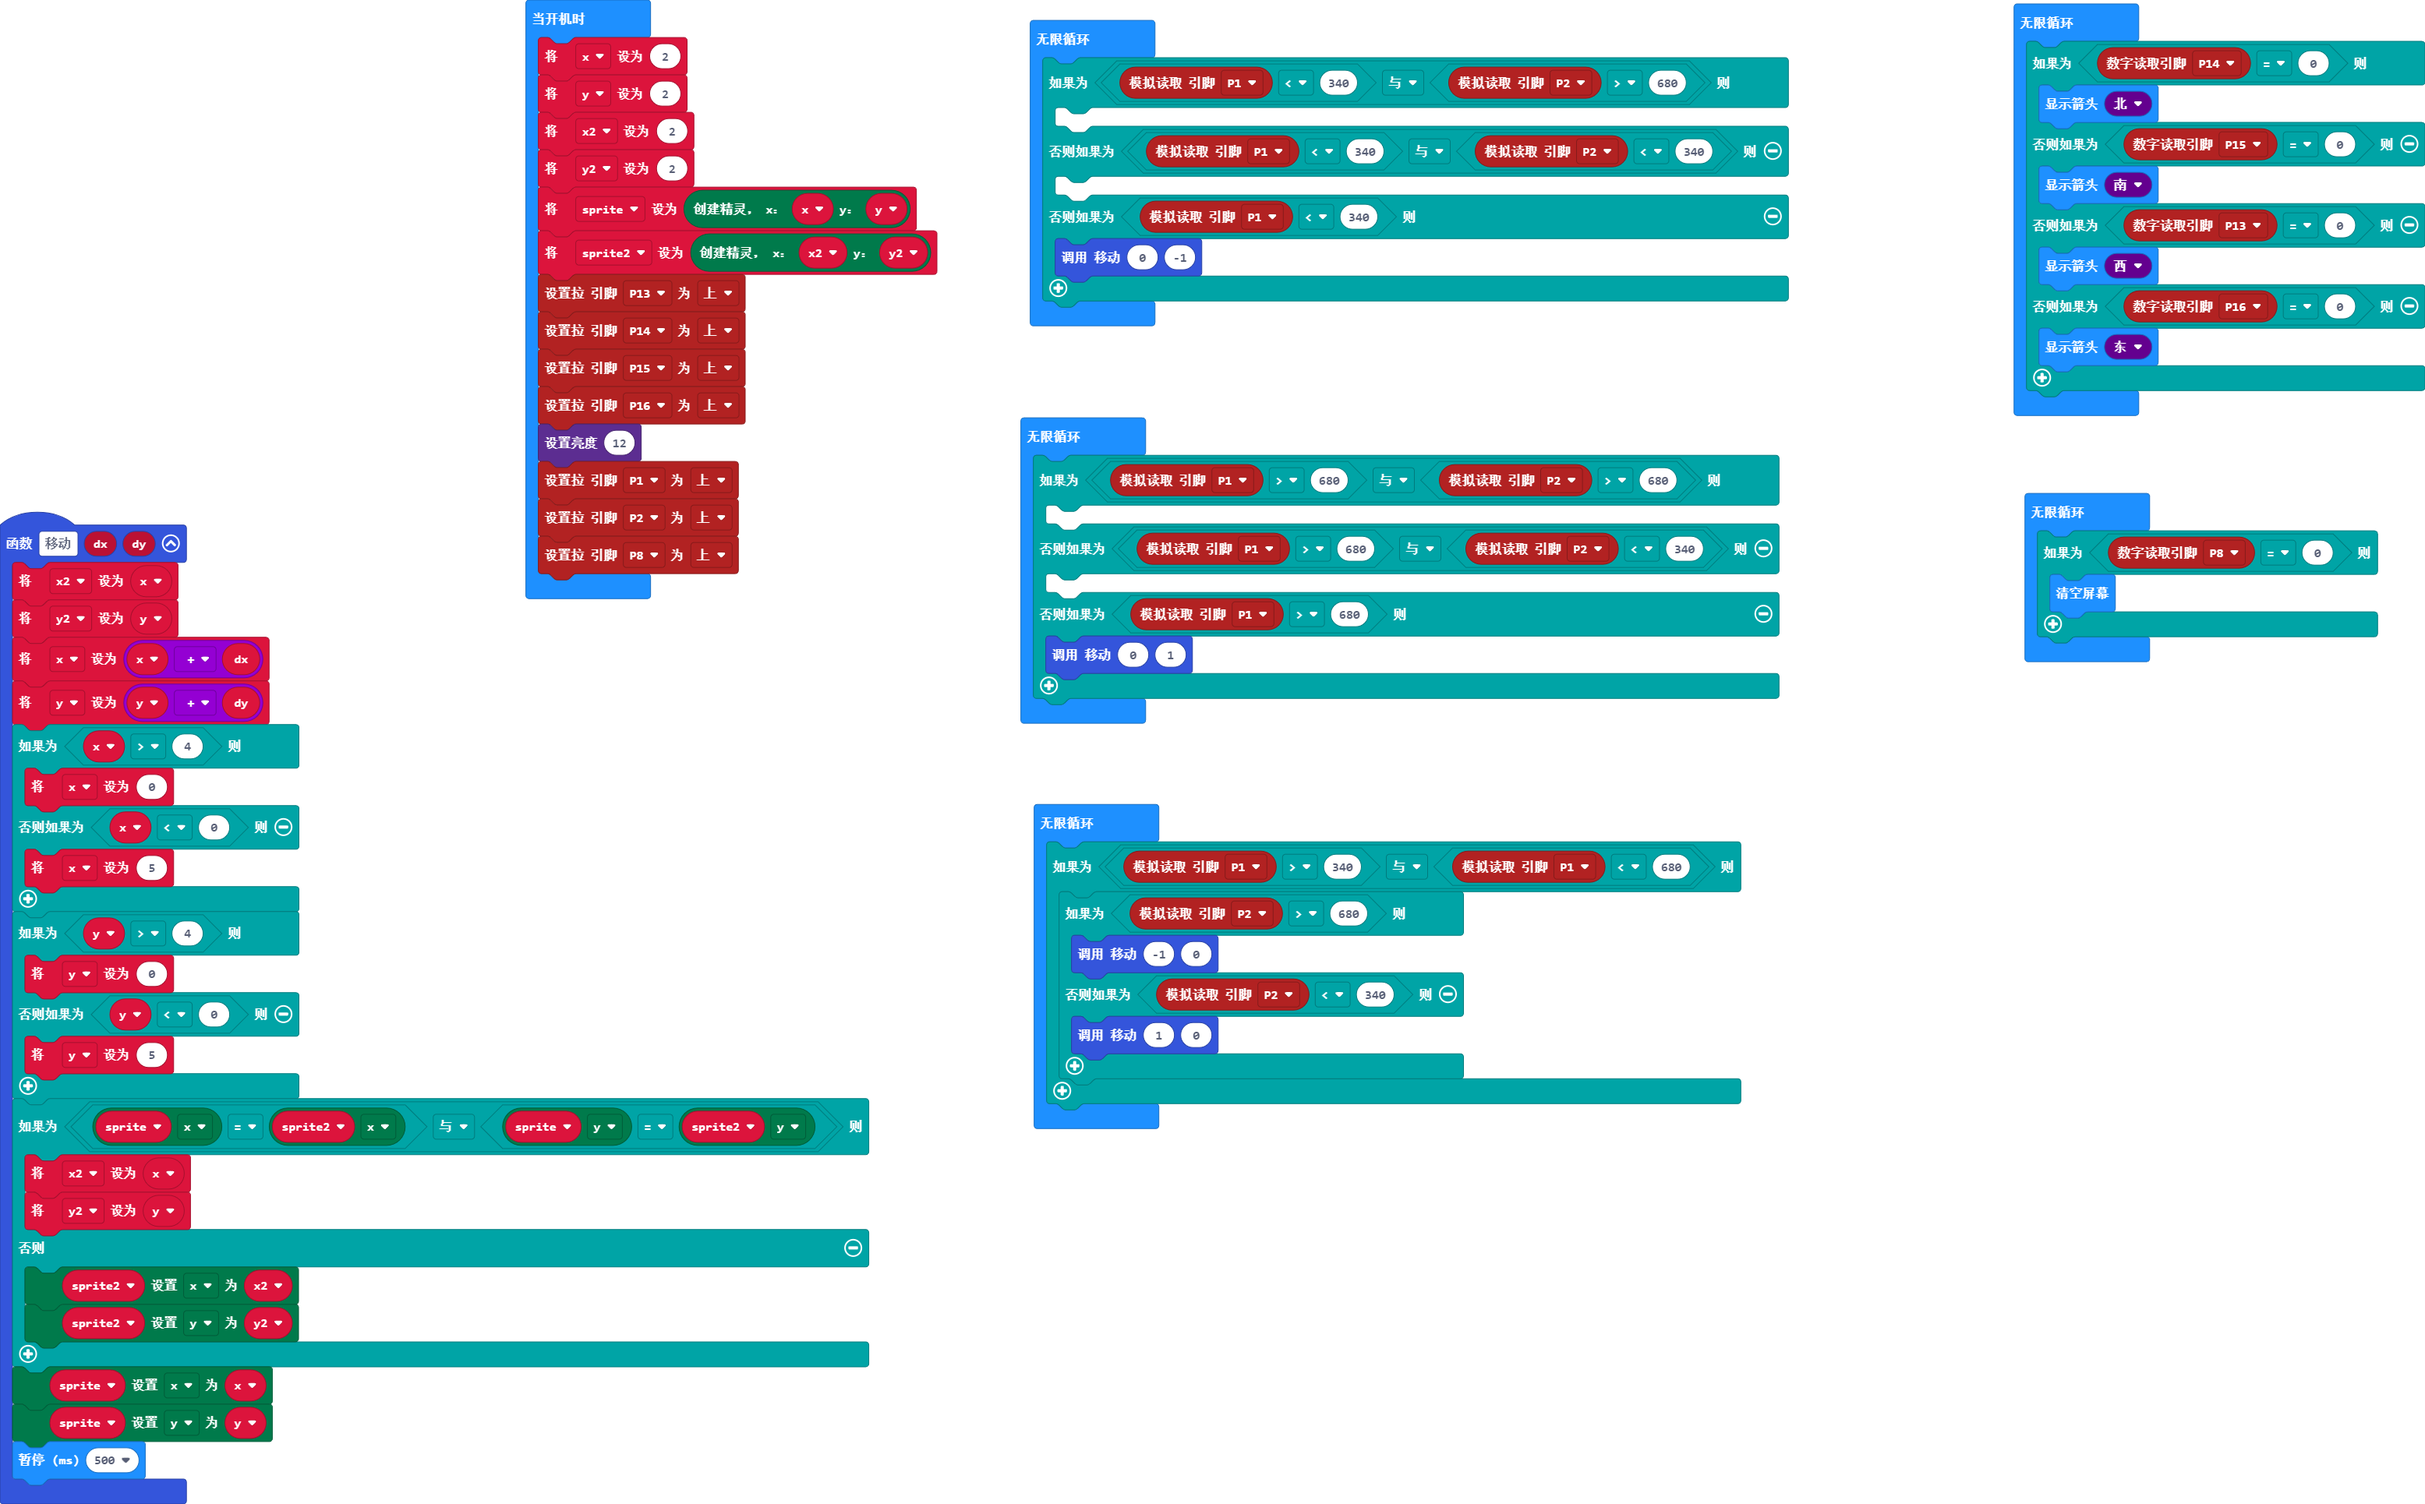
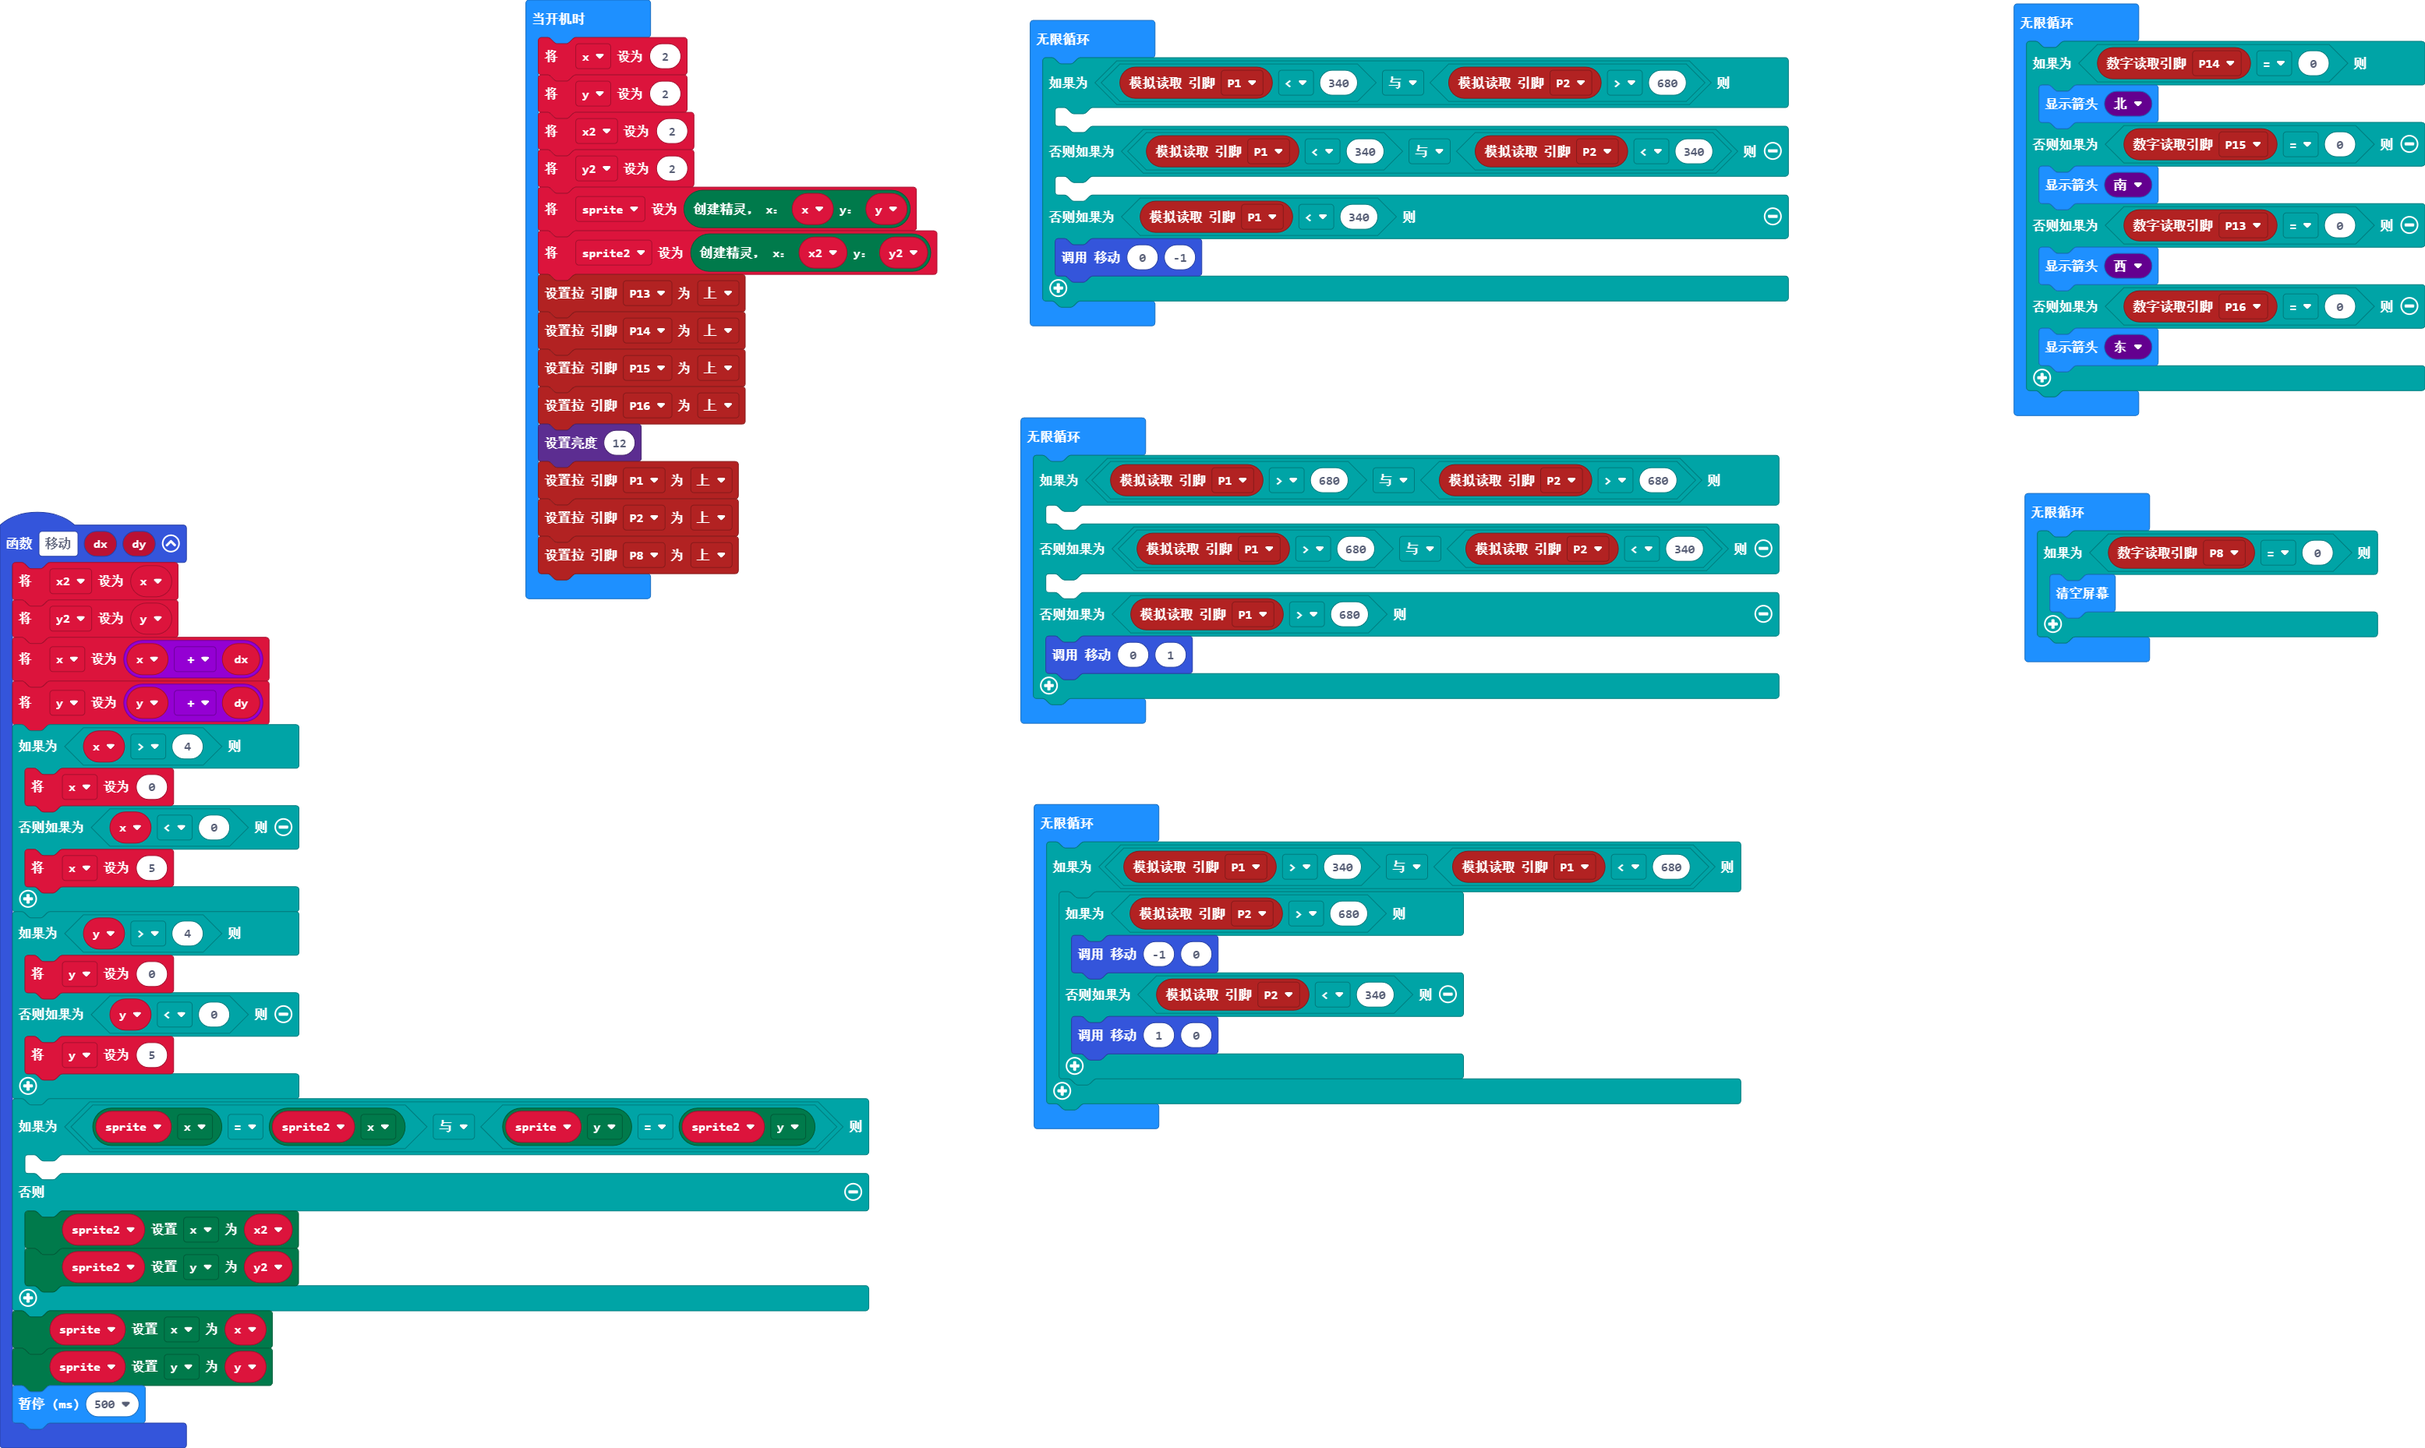
更新 main.blocks, main.ts

diff --git a/main.ts b/main.ts
@@ -14,8 +14,7 @@ function 移动 (dx: number, dy: number) {
         y = 5
     }
     if (sprite.get(LedSpriteProperty.X) == sprite2.get(LedSpriteProperty.X) && sprite.get(LedSpriteProperty.Y) == sprite2.get(LedSpriteProperty.Y)) {
-        x2 = x
-        y2 = y
+    	
     } else {
         sprite2.set(LedSpriteProperty.X, x2)
         sprite2.set(LedSpriteProperty.Y, y2)
